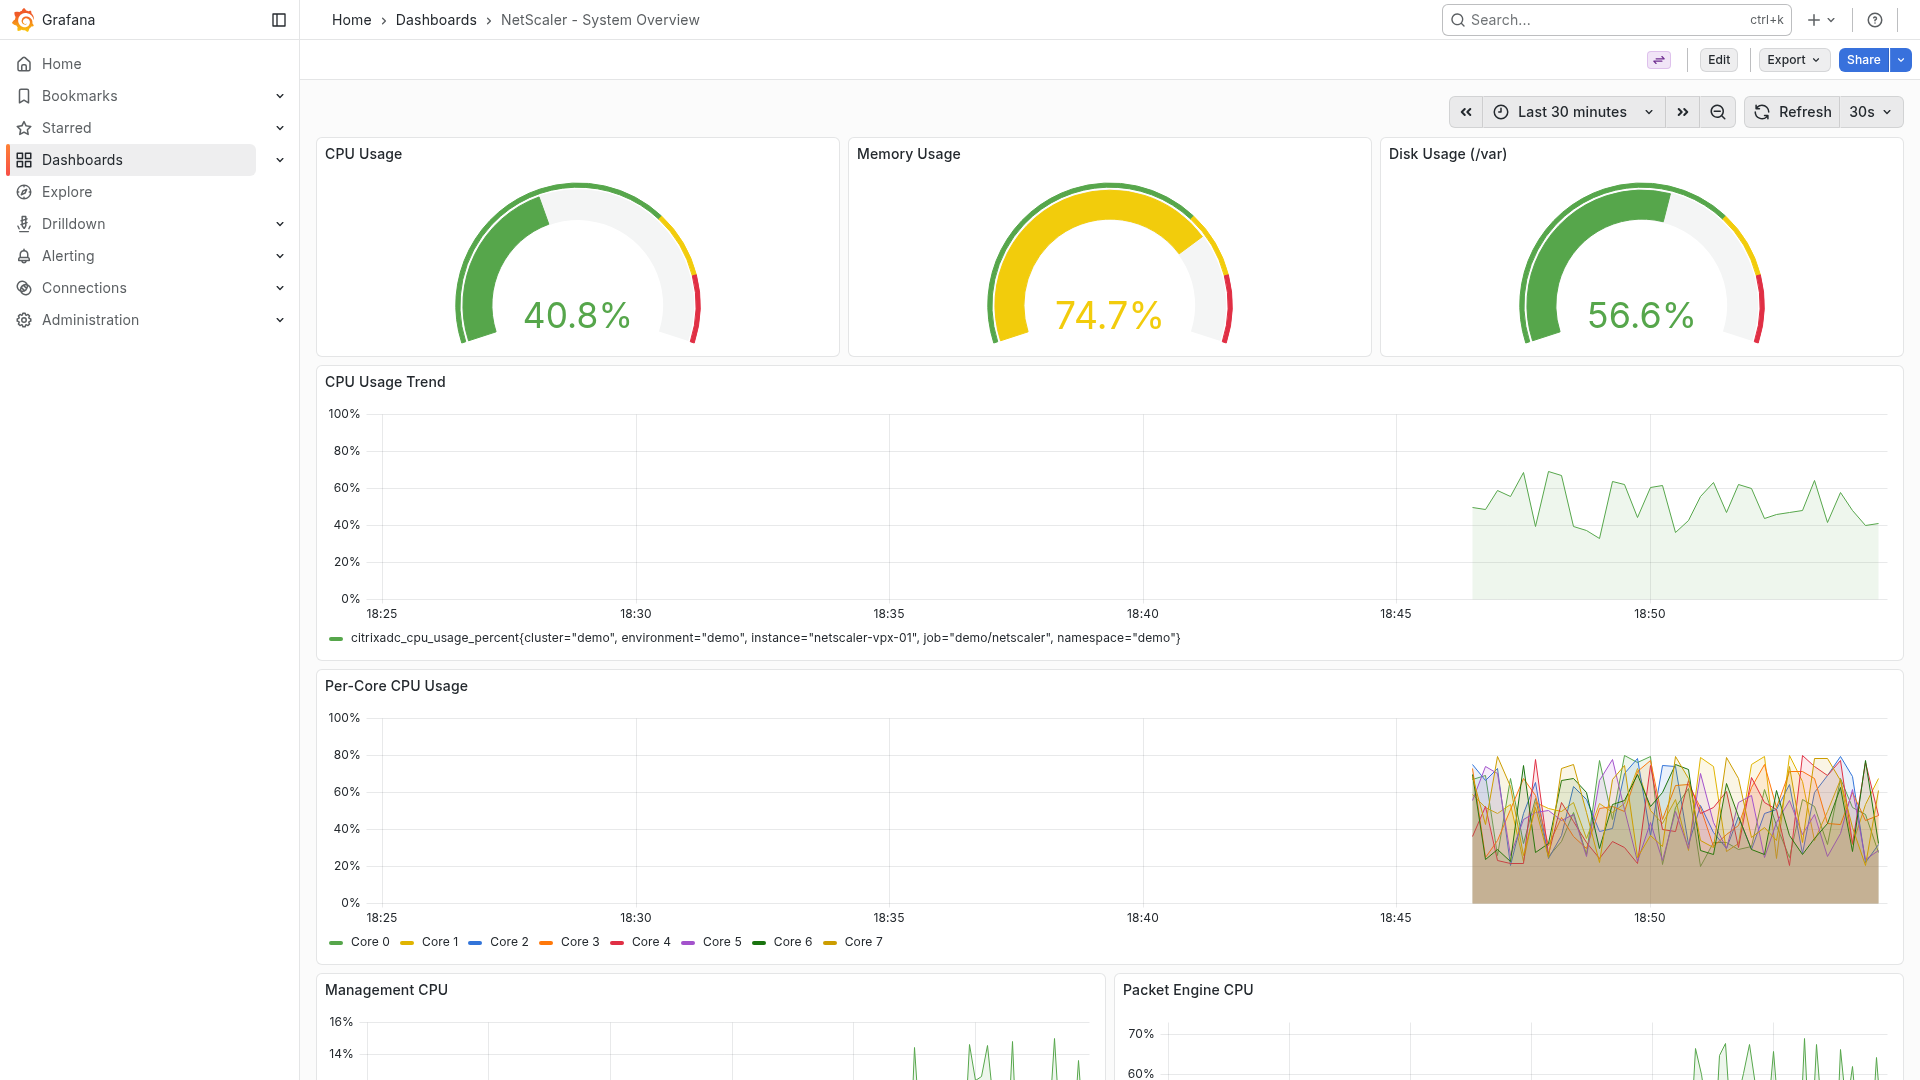
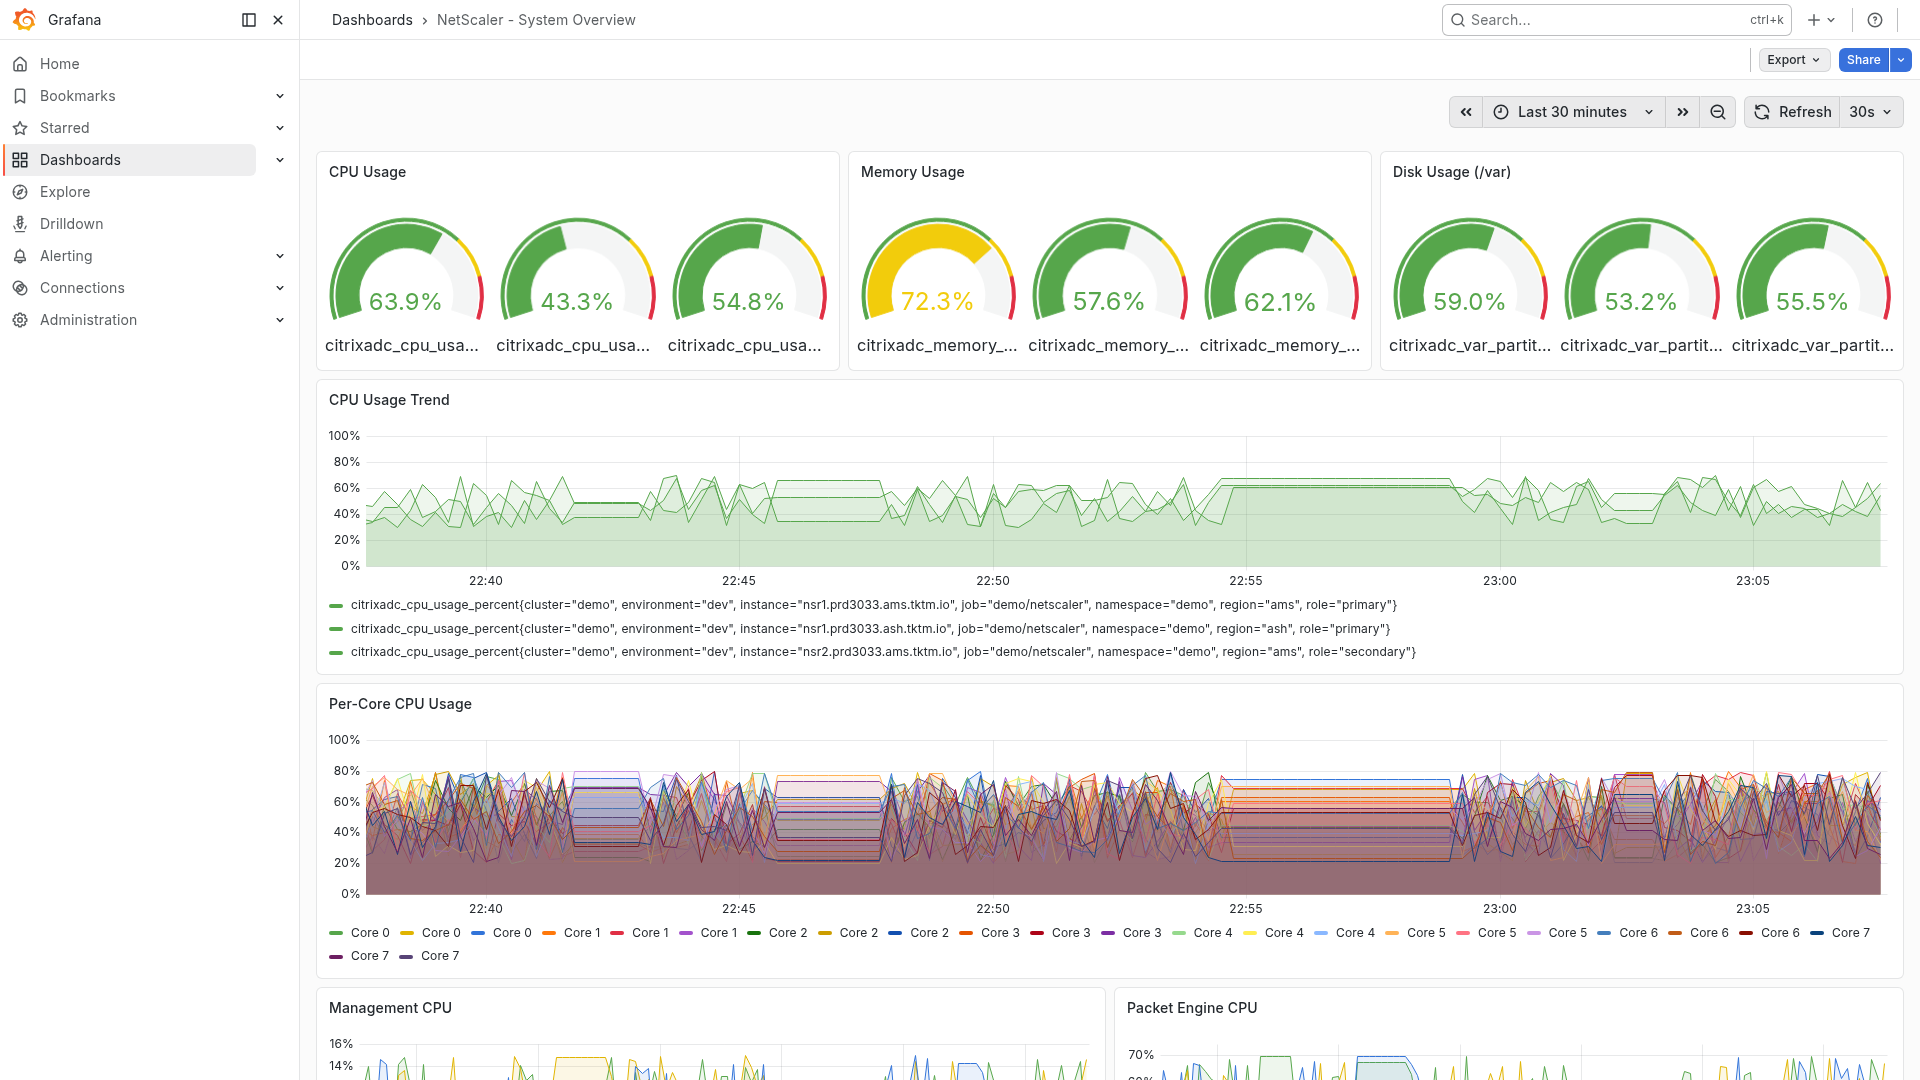
Grafan prometheous dashboards

diff --git a/netscaler-grafana-mimir-dashboards/app.py b/netscaler-grafana-mimir-dashboards/app.py
@@ -25,7 +25,7 @@ app = Flask(__name__)
 # INSTANCE CONFIGURATION (set via environment variables for multi-instance)
 # ============================================================================
 
-INSTANCE_NAME = os.environ.get("INSTANCE_NAME", "nsr1.prd3033.ams.tktm.io")
+INSTANCE_NAME = os.environ.get("INSTANCE_NAME", "nsr1.kisaan001.bru.fictionally.org")
 INSTANCE_IP = os.environ.get("INSTANCE_IP", "10.78.1.1")
 INSTANCE_REGION = os.environ.get("INSTANCE_REGION", "ams")
 INSTANCE_ROLE = os.environ.get("INSTANCE_ROLE", "primary")  # primary or secondary
@@ -40,7 +40,7 @@ LB_VSERVERS = [
     {"name": "lb_vsrv_web_secure",  "type": "SSL",  "port": "443",  "state": "UP", "domain": "www.ticketmaster.com"},
     {"name": "lb_vsrv_api_gateway", "type": "HTTP", "port": "8080", "state": "UP", "domain": "api.ticketmaster.com"},
     {"name": "lb_vsrv_backend_app", "type": "SSL",  "port": "8443", "state": "UP", "domain": "checkout.ticketmaster.com"},
-    {"name": "lb_vsrv_database",    "type": "TCP",  "port": "3306", "state": "UP", "domain": "db.internal.tktm.io"},
+    {"name": "lb_vsrv_database",    "type": "TCP",  "port": "3306", "state": "UP", "domain": "db.internal.fictionally.org"},
 ]
 
 # Domain lookup for metrics — keyed by vserver name for fast access
@@ -87,19 +87,19 @@ SSL_VSERVERS = [
 
 # SSL Certificates Configuration — per-instance, driven by INSTANCE_NAME env var
 _CERT_CONFIGS = {
-    "nsr1.prd3033.ams.tktm.io": [
+    "nsr1.kisaan001.bru.fictionally.org": [
         {"name": "wildcard_prod_ams", "days_to_expire": 89},
         {"name": "api_gateway_cert", "days_to_expire": 45},
         {"name": "backend_app_cert", "days_to_expire": 12},
         {"name": "monitoring_cert", "days_to_expire": 180},
     ],
-    "nsr2.prd3033.ams.tktm.io": [
+    "nsr2.kisaan001.bru.fictionally.org": [
         {"name": "wildcard_prod_ams", "days_to_expire": 89},
         {"name": "api_gateway_cert", "days_to_expire": 45},
         {"name": "backend_app_cert", "days_to_expire": 12},
         {"name": "monitoring_cert", "days_to_expire": 180},
     ],
-    "nsr1.prd3033.ash.tktm.io": [
+    "nsr1.kisaan001.lon.fictionally.org": [
         {"name": "wildcard_prod_ash", "days_to_expire": 120},
         {"name": "ticketmaster_ssl_cert", "days_to_expire": 7},
         {"name": "payment_gateway_cert", "days_to_expire": 60},
